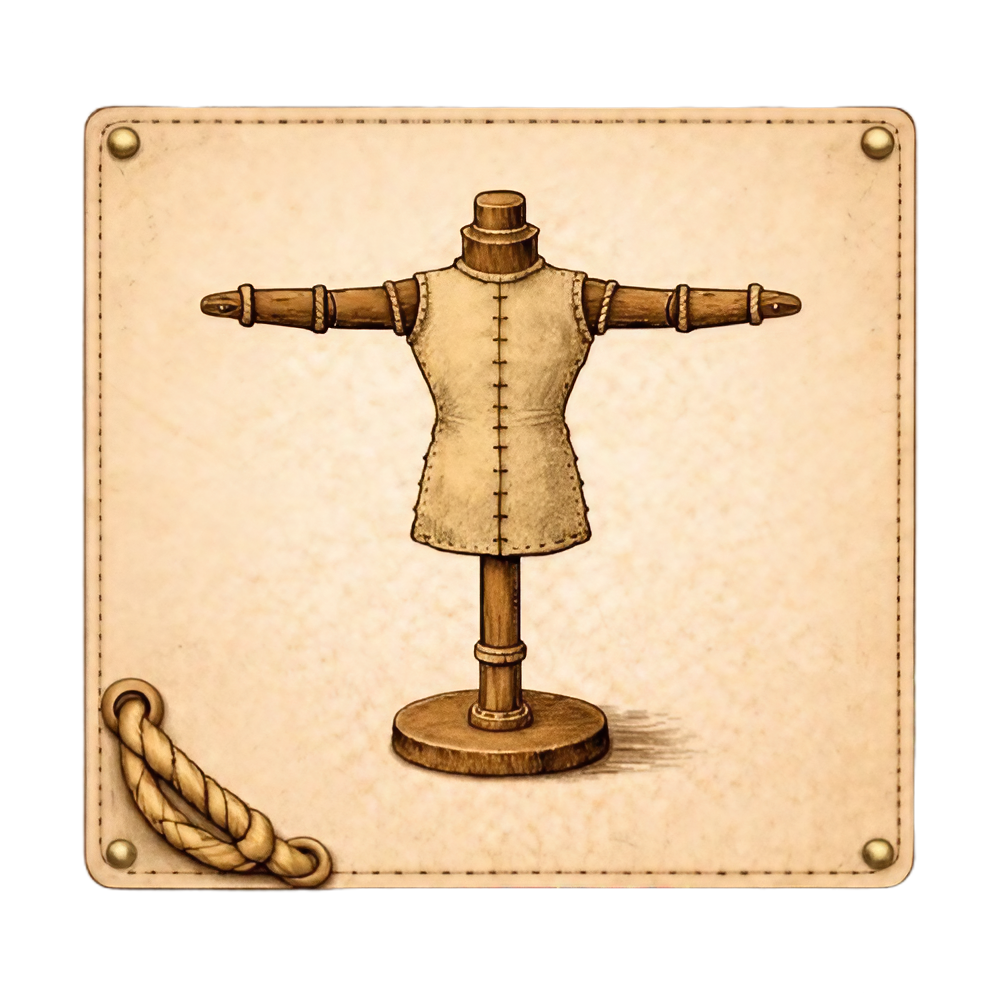
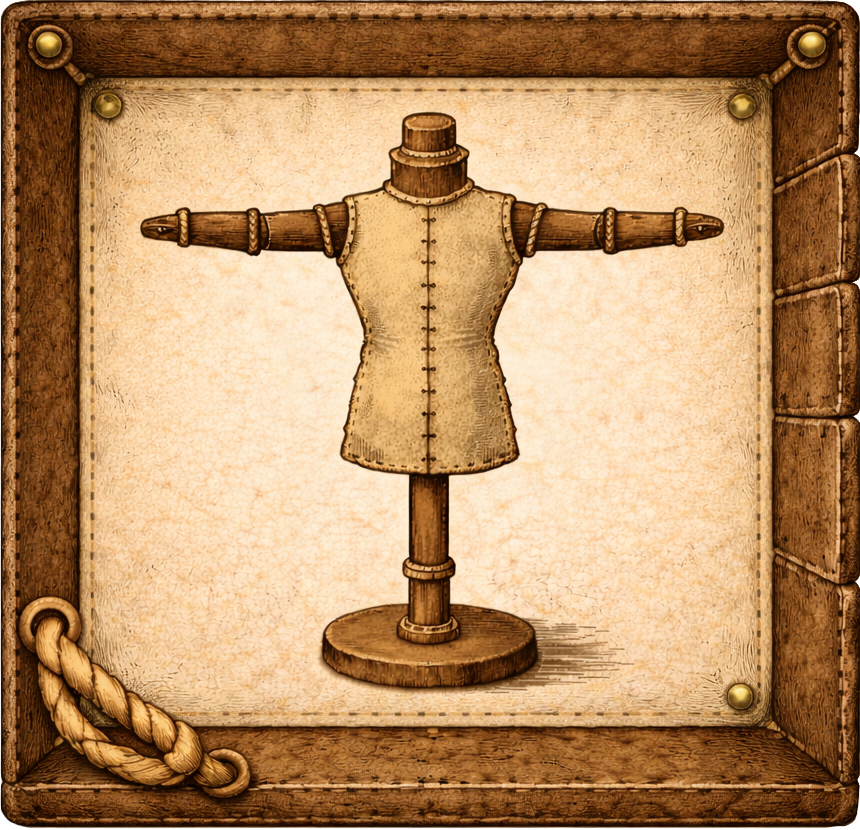
inicio do sistema de equipamentos

diff --git a/src/main.cpp b/src/main.cpp
@@ -31,8 +31,6 @@ physicalObject WallGenerator(b2WorldId world, float xP, float yP,float width, fl
     Parede.wallData = {(Texture2D){1},(float)width, (float)height, 0, false};
     Parede.bodyId = bodyId;
     return Parede;
-
-    return Parede;
 }
 
 physicalObject ItemGenerator(b2WorldId world, ItemTemplate& templ, float xP, float yP, enum b2BodyType type){ 
@@ -129,15 +127,35 @@ int main()
     SetTargetFPS(60);
     InitItemList();
     
-    
+    Texture2D openbackpackTex = LoadTexture("images/open backpack.png");
+    Texture2D equipamentTab = LoadTexture("images/tab.png");
+    Image backgroundimage = LoadImage("images/fundo.png");
+    ImageFormat(&backgroundimage, PIXELFORMAT_UNCOMPRESSED_R8G8B8A8);
+    Texture2D backgroundtexture = LoadTextureFromImage(backgroundimage);
+
+    if(true){
+        ImageBlurGaussian(&backgroundimage, 10);
+    }
+
+    Color *pixels = LoadImageColors(backgroundimage); 
+    UpdateTexture(backgroundtexture, pixels);
+    UnloadImageColors(pixels);
+
     b2WorldDef worldDef = b2DefaultWorldDef();
     worldDef.gravity = {0.0f, 20};
     b2WorldId world = b2CreateWorld(&worldDef);
     
+    float backpackCenterX = screenWidth / 2.0f-10;
+    float backpackCenterY = screenHeight / 2.0f-25;
+    float backpackScale = 0.75;
+
+    float backpackW = openbackpackTex.width/1.5 * backpackScale;
+    float backpackH = openbackpackTex.height * backpackScale;
+
     std::vector<physicalObject> BackpackWalls;
-    BackpackWalls.push_back(WallGenerator(world, screenWidth/2, screenHeight/2+275, 400, 10,b2_staticBody));
-    BackpackWalls.push_back(WallGenerator(world, screenWidth/2-145, screenHeight/2+100, 10, 400,b2_staticBody));
-    BackpackWalls.push_back(WallGenerator(world, screenWidth/2+190, screenHeight/2+100, 10, 400,b2_staticBody));
+    BackpackWalls.push_back(WallGenerator(world, backpackCenterX, backpackCenterY + backpackH*0.38f, backpackW*0.95f, 10, b2_staticBody));   // chão
+    BackpackWalls.push_back(WallGenerator(world, backpackCenterX - backpackW*0.46f, backpackCenterY, 10, backpackH*0.75f, b2_staticBody));   // parede esq
+    BackpackWalls.push_back(WallGenerator(world, backpackCenterX + backpackW*0.46f, backpackCenterY, 10, backpackH*0.75f, b2_staticBody));   // parede dir
     
     
     std::vector<physicalObject> TotalItems;
@@ -147,7 +165,6 @@ int main()
     TotalItems.push_back(ItemGenerator(world, espadacurta, (screenWidth/2)+(2*50)-50, screenHeight/2-100, b2_dynamicBody));
     TotalItems.push_back(ItemGenerator(world, pocaomisteriosa, (screenWidth/2+150), screenHeight/2-400, b2_dynamicBody));
     
-    Texture2D openbackpackTex = LoadTexture("images/open backpack.png");
     
     
     while (!WindowShouldClose())
@@ -162,9 +179,10 @@ int main()
         
         BeginDrawing();
         ClearBackground(WHITE);
+        DrawTexture(backgroundtexture,0,0,WHITE);
+        DrawTextureEx(equipamentTab, (Vector2){screenWidth/2-(float)(equipamentTab.width/4)+420,screenHeight/2-(float)(equipamentTab.height/4)-50}, 0, 0.6, WHITE);
+        DrawTextureEx(openbackpackTex, (Vector2){screenWidth/2-(float)(openbackpackTex.width/4)-150,screenHeight/2-(float)(openbackpackTex.height/4)-150}, 0, backpackScale, WHITE);
         
-        DrawTextureEx(openbackpackTex, (Vector2){screenWidth/2-(float)(openbackpackTex.width/4)-45,screenHeight/2-(float)(openbackpackTex.height/4)+20}, 0, 0.6, WHITE);
-
         /*
         for (const physicalObject& body : BackpackWalls) {
             b2Vec2 pos = b2Body_GetPosition(body.bodyId);
@@ -180,6 +198,8 @@ int main()
         */
         
         
+        
+        
         for (const physicalObject& body : TotalItems) {
             b2Rot rot = b2Body_GetRotation(body.bodyId);
             b2Vec2 pos = b2Body_GetPosition(body.bodyId);
@@ -192,7 +212,7 @@ int main()
 
             Texture2D tex = body.templateData.itemPhysical->texture;
             
-
+            
             DrawTexturePro(
                 body.templateData.itemPhysical->texture,
                 (Rectangle){0, 0, (float)body.templateData.itemPhysical->texture.width, 

diff --git a/src/Equipament.h b/src/Equipament.h
@@ -1,0 +1,18 @@
+#ifndef ITEMLIST_H
+#define ITEMLIST_H
+
+#include "raylib.h"
+#include "box2d/id.h"
+
+struct InventoryPivotPoint{
+    int x;
+    int y;
+    bool isCircle;
+    int width;
+    int height;
+    int radius;
+    float strength;
+};
+
+
+#endif

diff --git a/src/Equipament.cpp b/src/Equipament.cpp
@@ -1,0 +1,5 @@
+#include "Equipament.h"
+#include "raylib.h"
+#include <vector>
+#include <cstdlib>
+
